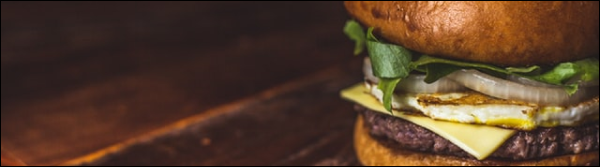
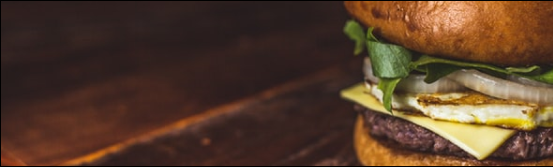
Added wrapper and css to make header static, trimmed photo, adjusted css to better use space

diff --git a/style.css b/style.css
@@ -1,6 +1,6 @@
 :root {
-	--dark-gray: #bbbbbb;
-	--gray: #dedede;
+	--dark-gray: #bfbfbf;
+	--gray: #dddddd;
 	--green: #16db99;
 	--white: #ffffff;
 }
@@ -9,13 +9,9 @@ html, body, h1, h2, p, .subheader {
 	margin: 0;
 }
 
-body {
+body, html {
 	background-color: var(--white);
 	height: 100%;
-}
-
-p {
-	font-size: 1.35rem;
 }
 
 .smythe-regular {
@@ -24,24 +20,27 @@ p {
 	font-style: normal;
 }
 
-.roboto {
-  font-family: "Roboto", sans-serif;
-  font-optical-sizing: auto;
-  font-style: normal;
-  font-variation-settings:
-    "wdth" 100;
+#wrapper {
+	margin: 0 auto;
+	display: flex;
+	flex-direction: column;
+	height: 100dvh;
 }
 
-.header-img {
+#header-img {
     background-image: url("images/header.png");
     background-repeat: no-repeat;
     background-position: center top;
     background-size: 100% auto;
-		aspect-ratio: 600/167;
+		aspect-ratio: 553/167;
 		display: flex;
 		flex-direction: column;
 		justify-content: center;
 		padding-left: 1.4rem;
+}
+
+h1 {
+	font-size: 2.6rem;
 }
 
 h1, .subheader {
@@ -49,40 +48,40 @@ h1, .subheader {
 	font-weight: normal;
 }
 
-h1 {
-	font-size: 1.9rem;
-}
-
 .subheader {
-	font-size: 1rem;
+	font-size: 1.2rem;
 	margin-top: .05rem;
 }
 
 h2 {
-	align-self: center;
+	text-align: center;
+	font-size: 2.2rem;
+	margin-block:.7rem .5rem;
 }
 
-	/* ~~~~~~~~~~ MENU ~~~~~~~~~~ */
+#main {
+	flex-grow: 1;
+	overflow-y: auto;
+	margin-top: .8rem
+}
 
-#menu {
-	display: flex;
-	flex-direction: column;
+/* ~~~~~~~~~~ MENU ~~~~~~~~~~ */
+
+#menu hr {
+  border-top: .5px solid var(--dark-gray);
+  border-bottom: none;
+	margin: 1.1rem 4.5%;
 }
 
 .menu-item {
 	display: grid;
 	grid-template-columns: max-content 7fr 1fr;
-	margin-inline: 1.5rem;
-	border-bottom: 2px solid var(--gray);
-	padding-top: 1.4rem;
-	padding-bottom: 1.4rem;
 	align-items: center;
+	margin-inline: .3rem .8rem;
 }
 
 .emoji {
-	font-size:4rem;
-	align-self: center;
-	justify-self: start;
+	font-size:5.2rem;
 }
 
 button {
@@ -90,26 +89,28 @@ button {
 }
 
 .menu-item-text {
-	align-items: center;
-	padding-inline: 1rem;
+	display: flex;
+	flex-direction: column;
+	gap: .5rem;
+	padding-inline: .5rem;
+	padding-top: .5rem;
+}
+
+.item-name {
+	font-size: 1.45rem;
 }
 
 .item-ingredients {
-	font-size: .8rem;
-	margin-top:.2rem !important;
+	font-size: 1rem;
 }
 
 .item-price {
-	font-size: 1.1rem;
-	margin-top: .5rem !important;
+	font-size: 1.3rem;
+	margin-top: .2rem;
 }
 
 .add-remove {
 		padding-right:.4rem;
-		/* span {
-			font-size:1.4rem;
-			font-weight: lighter;
-		} */
 }
 .add-remove-btn {
 	align-self: center;
@@ -134,24 +135,25 @@ button {
 	display: none;
 	flex-direction: column;
 	flex: 1;
-	padding: 1.8rem 1rem .8rem 1rem;
+	padding: 0 4.5% .8rem 4.5%;
 	align-items: stretch;
-	h2 {
-		font-size: 1.4rem;
+	.item-name {
+		font-size: 1.35rem;
 	}
 }
 
 #selection-list {
 	display: flex;
 	flex-direction: column;
-	gap: 1rem;
-	padding-top: 1.2rem;
+	gap: .5rem;
+	padding-top: .8rem;
 }
 
 .selection {
 	display: flex;
 	flex-direction: row;
 	justify-content: space-between;
+	align-items: center;
 }
 .item-name-and-remove-btn {
 	display: flex;
@@ -162,19 +164,32 @@ button {
 .remove-btn {
 	background: none;
 	border: none;
-	font-size: 0.85rem;
-	color: var(--dark-gray);
+	font-size: .85rem;
+	color: #bbbbbb;
 }
+
+/* .multiple-item {
+	display: none;
+	font-size:1.4rem;
+	font-weight: lighter;
+} */
 
 .total-container {
 	display: flex;
 	justify-content: space-between;
-	border-top: 2px black solid;
-	margin-top: 1.2rem;
-	padding-block: .9rem 1.5rem;
+	align-items: center;
+	border-top: 1.7px var(--dark-gray) solid;
+	padding-block: .7rem 1.5rem;
+	margin-top: .7rem;
 	p {
-		font-size: 1rem !important;
+		font-size: 1.35rem;
 	}
+}
+
+.total-item-cost, #order-total {
+	font-family: "Roboto", sans-serif;
+	font-size: .9rem;
+	font-weight: 500;
 }
 
 .green-btn {
@@ -184,5 +199,5 @@ button {
 	border: none;
 	box-shadow: none;
 	height:3rem;
-	font-size:.95rem;
+	font-size:1.05rem;
 }

diff --git a/index.html b/index.html
@@ -12,24 +12,27 @@
 </head>
 
 <body>
-	<header class="smythe-regular">
-		<div class="header-img" aria-label="juicy burger header">
-			<h1>Jimmy's Diner</h1>
-			<p class="subheader">The best burgers and pizza in town.</p>
-		</div>
-	</header>
-	<main class="smythe-regular">
-		<div id="menu"></div>
-		<div id="order-summary">
-			<h2>Your Order</h2>
-			<div id="selection-list"></div>
-			<div class="total-container">
-				<p>Total Price:</p>
-				<p id="order-total"></p>
+	<div id="wrapper">
+		<header class="smythe-regular">
+			<div id="header-img" aria-label="juicy burger header">
+				<h1>Jimmy's Diner</h1>
+				<p class="subheader">The best burgers and pizza in town.</p>
 			</div>
-			<button id="complete-order-btn" class=" green-btn">Complete order</button>
-		</div>
-	</main>
+		</header>
+		<main id="main" class="smythe-regular">
+			<h2>Menu</h2>
+			<div id="menu"></div>
+			<div id="order-summary">
+				<h2>Your Order</h2>
+				<div id="selection-list"></div>
+				<div class="total-container">
+					<p>Total Price:</p>
+					<p id="order-total"></p>
+				</div>
+				<button id="complete-order-btn" class=" green-btn">Complete order</button>
+			</div>
+		</main>
+	</div>
 	<script src="index.js" type="module"></script>
 	<script src="https://kit.fontawesome.com/fd264b1039.js" crossorigin="anonymous"></script>
 </body>

diff --git a/index.js b/index.js
@@ -64,6 +64,7 @@ function handleOrderSummary(itemId) {
 	// add reload in DOM so selectionList fields are updated
 	renderSelectionList(selectionListHtmlArray)
 	orderSummaryEl.style.display != 'flex' && (orderSummaryEl.style.display = 'flex')
+}
 
 function createNewObject(itemId) {
 	const selectedItemInMenuArray =
@@ -89,7 +90,7 @@ function getSelectedItemHtml(item) {
 			<div class="item-name-and-remove-btn">
 			<p class="item-name">${item.name}&ensp;<span class="multiple-item">(x${item.quantity})</span></p>
 			</div>
-			<p>$${item.totalItemCost}</p>
+			<p class="total-item-cost">$${item.totalItemCost}</p>
 		</div>`
 }
 
@@ -102,12 +103,12 @@ function createMenuHtml() {
 				<p class="item-name">${item.name}</p>
 				<p class="item-ingredients">${item.ingredients.join(', ')}</p>
 				<p class="item-price">$${item.price}</p>
-				</p>
 			</div>
 			<div class="add-remove">
 				<button class="add-remove-btn" type="click" data-item="${item.id}">+</button>
 			</div>
-		</div>`
+		</div>
+		<hr>`
 	})
 	return mapMenu.join('')
 }
